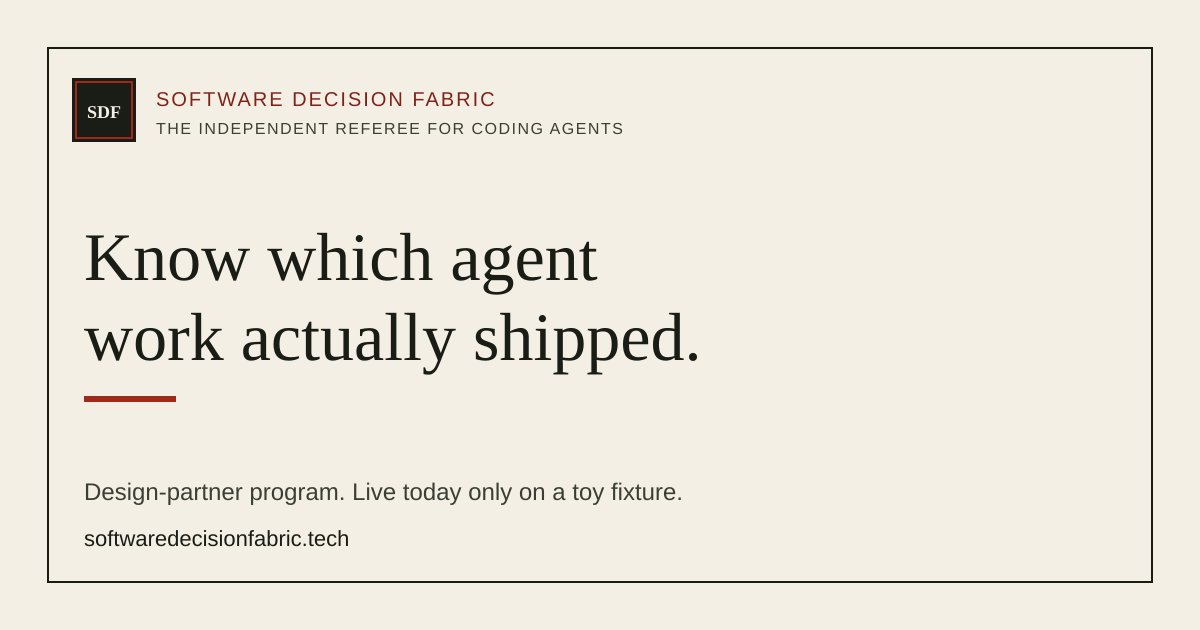
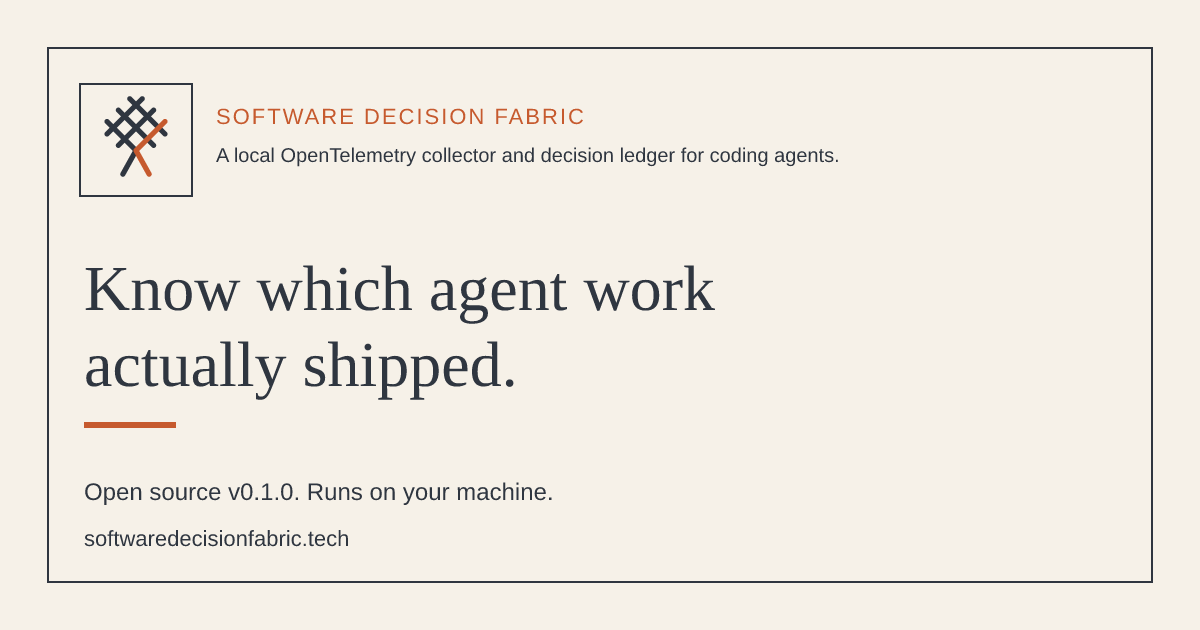
Align the site with the public v0.1.0 collector and woven mark.
Use the official tagline, local install, and token-count privacy, and replace the typographic SDF seal with the fabric mark.

diff --git a/src/data/site.ts b/src/data/site.ts
@@ -6,11 +6,11 @@ export const site = {
   name: "Software Decision Fabric",
   shortName: "SDF",
   url: "https://softwaredecisionfabric.tech",
-  tagline: "The independent referee for coding agents.",
+  tagline: "A local OpenTelemetry collector and decision ledger for coding agents.",
   email: "design-partners@softwaredecisionfabric.tech",
   emailIsPlaceholder: false,
   status:
-    "Today SDF ships an open-source local collector for coding-agent telemetry, plus local commands that declare a task's checks and run them against a commit. The full referee loop is planned and is shown only as a toy fixture mock on this site. We are onboarding 3 to 5 design partners.",
+    "v0.1.0 is public: an open-source local collector and decision ledger (Apache 2.0) that listens on your machine. Declare, verify, and record are partly shipped. Routing and the hosted referee loop are planned. We are onboarding 3 to 5 design partners.",
   repo: "https://github.com/paulpham157/sdf",
 } as const;
 
@@ -20,7 +20,7 @@ export const wedgeMetric = "Cost per Accepted Outcome";
 export const hero = {
   title: "Know which agent work actually shipped.",
   subhead:
-    "SDF is building the independent referee for coding agents. Today it is an open-source local collector: it records the telemetry your agents already export, links sessions to commits, and shows Cost per Accepted Outcome from pull requests that merged. It can also run a task's declared checks against one commit from the command line. Routing work to agents and verifying every attempt automatically are planned.",
+    "A local OpenTelemetry collector and decision ledger for coding agents. It runs on your machine: it listens on 127.0.0.1, stores sessions in SQLite, and does not launch, route, or sandbox agents. It records the telemetry your agents already export, links sessions to commits, and shows Cost per Accepted Outcome from pull requests that merged. It can also run a task's declared checks against one commit. The independent referee loop — routing work and verifying every attempt automatically — is planned.",
   buyer:
     "For platform, security, or VP Engineering leaders running two or more coding agents.",
   primaryCta: "Become a design partner",
@@ -31,7 +31,7 @@ export const problem = {
   heading: "“Task complete” is a claim, not a result.",
   body: "Copilot, Cursor, Devin, and Factory each grade their own work. You pay per seat or per token, while the question that matters — did it work? — goes unanswered.",
   coverage:
-    "What SDF reads today: Claude Code, Codex CLI, OpenCode v2, Qwen Code, Grok CLI, Gemini CLI, GitHub Copilot CLI, and Pi through the community pi-otel extension, from the OpenTelemetry each one exports. The tool-call arguments Qwen Code and Gemini CLI send are dropped before anything is stored. Cursor, Devin, Factory, and Copilot outside the CLI have no SDF adapter yet.",
+    "sdf init supports Claude Code, Codex, OpenCode v2, Pi (through the community pi-otel extension), Qwen, Grok, Gemini, and Copilot CLI, from the OpenTelemetry each one exports. The tool-call arguments Qwen Code and Gemini CLI send are dropped before anything is stored. Cursor, Devin, Factory, and Copilot outside the CLI have no SDF adapter.",
   agents: ["Copilot", "Cursor", "Devin", "Factory"] as const,
 } as const;
 
@@ -73,7 +73,7 @@ export const steps = [
     status: "partial" as Status,
     body: "Planned: every attempt, its cost, and its evidence land in a Decision Graph you can audit. Shipping now: session cost and commit links, decision records you link to sessions and commits, and an optional hash-chained ledger.",
     today:
-      "Today: each session's tokens, duration, and cost, the commit or pull request it links to, and the decision records you write, in one local SQLite file. No UI or API route writes or deletes. With --ledger, sdf task declare and sdf verify also append the task, evidence, and verdict to an append-only, hash-chained ledger that sdf audit verify checks. Linking that evidence to sessions and cost is planned.",
+      "Today: token counts, duration, and computed cost for each session, the commit or pull request it links to, and the decision records you write, in one local SQLite file. Prompt, response, tool, and error text is dropped before storing unless you opt in with --store-content. No UI or API route writes or deletes. With --ledger, sdf task declare and sdf verify also append the task, evidence, and verdict to an append-only, hash-chained ledger that sdf audit verify checks. Linking that evidence to sessions and cost is planned.",
   },
 ] as const;
 
@@ -84,7 +84,7 @@ export const verifiedAttempt =
   "A verified Attempt is a recorded run whose evidence was checked independently of the agent that produced it, against criteria that run did not get to choose.";
 
 export const costPerAcceptedOutcome =
-  "Cost per Accepted Outcome is the computed cost of the agent sessions whose linked commit landed in a merged GitHub pull request, divided by how many such sessions there are. It is unknown, not zero, when any session has no known outcome, an accepted session has no known cost, the same commit is linked to more than one accepted session, or nothing merged. It is never a cost per seat, or per agent claiming a task is done.";
+  "Cost per Accepted Outcome is the computed cost of the agent sessions whose linked GitHub pull request merged, divided by how many such sessions there are. It is unknown, not zero, without --github, or when cost, outcome, or a unique merge is missing: any session has no known outcome, an accepted session has no known cost, the same commit is linked to more than one accepted session, or nothing merged. It is not read from an invoice, and it is not acceptance by a named principal. It is never a cost per seat, or per agent claiming a task is done.";
 
 export const acceptedToday =
   "Accepted means merged: a session counts as accepted only when every commit linked to it is in one GitHub pull request and that pull request is merged. CI status is reported next to it and does not change it. Acceptance by a named reviewer is planned.";
@@ -173,7 +173,7 @@ export const faqs = [
   },
   {
     q: "Is SDF generally available?",
-    a: "No. What ships today is the open-source local collector, with local sdf task declare and sdf verify commands. Automatic verification of every attempt, routing, Hosted Team, and Enterprise are planned, and the referee loop exists only as a toy fixture mock. The invitation on this site is a design-partner program for 3 to 5 platform teams, not a public rollout.",
+    a: "The open-source collector is already public. v0.1.0 runs on your machine under Apache 2.0; install it with go install and keep the data in local SQLite. The hosted referee is not a general release: automatic verification of every attempt, routing, Hosted Team, and Enterprise are planned. The referee loop drawn on this site is a mock of that planned loop. The invitation here is a design-partner program for 3 to 5 platform teams.",
   },
   {
     q: "Are the OpenHands, Factory, and Ona figures SDF prices?",
@@ -182,15 +182,19 @@ export const faqs = [
 ] as const;
 
 export const onePager = {
-  headline: "SDF: the independent referee for coding agents",
+  headline: "SDF: a local OpenTelemetry collector and decision ledger for coding agents",
   sections: [
     {
       title: "Problem",
       body: "Coding agents grade their own work. Teams running several agents can't prove which work shipped, or the Cost per Accepted Outcome.",
     },
     {
+      title: "Install",
+      body: "Public now, and the way to run SDF: v0.1.0, Apache 2.0, on your machine. go install github.com/paulpham157/sdf/cmd/sdf@latest, or go install github.com/paulpham157/sdf/cmd/sdf@v0.1.0. Prebuilt archives are at https://github.com/paulpham157/sdf/releases/tag/v0.1.0. Go 1.26 or newer to build from source. It listens on 127.0.0.1 and stores SQLite locally. No outside SaaS is required. Hosted Team, Enterprise, VPC, and SSO are a planned roadmap and are not required to install.",
+    },
+    {
       title: "Solution",
-      body: "Planned: a vendor-neutral control plane that verifies every agent attempt with evidence the agent can't forge and records it in an auditable Decision Graph. Shipping today: an open-source local collector that records agent telemetry, links sessions to commits, and computes Cost per Accepted Outcome from merged pull requests, plus sdf verify, which runs a declared task's checks against one commit.",
+      body: "Shipping today: an open-source local collector and decision ledger. It records agent telemetry, drops prompt, response, tool, and error text unless you pass --store-content, keeps token counts so cost can be computed, links sessions to commits, and computes Cost per Accepted Outcome from merged pull requests. sdf verify runs a declared task's checks against one commit. Planned: a vendor-neutral referee that routes work and verifies every agent attempt with evidence the agent can't forge.",
     },
     {
       title: "Outcome",
@@ -202,7 +206,7 @@ export const onePager = {
     },
     {
       title: "Model",
-      body: "Planned: Hosted Team (workspace fee plus verified Attempts) and Enterprise (annual platform fee, VPC or self-host, SSO/SCIM). Neither is available yet. Dollar amounts are unpublished until design partners validate them.",
+      body: "Planned roadmap, not the install path: Hosted Team (workspace fee plus verified Attempts) and Enterprise (annual platform fee, VPC or self-host, SSO/SCIM). Neither is available yet. Dollar amounts are unpublished until design partners validate them.",
     },
   ],
   cta: "Become one of 3 to 5 design partners and baseline Cost per Accepted Outcome before and after SDF.",
@@ -274,13 +278,15 @@ export const graphNodes = [
   { title: "Attempt", detail: "Today: an agent session, linked to a commit by exact SHA, git hook, commit trailer, or the single commit in its time window; otherwise unlinked" },
   { title: "Evidence", detail: "Today: sdf verify's check results, not yet linked to a session" },
   { title: "Verdict", detail: "Today: PASS, FAIL, or ERROR for the exact commit sdf verify checked" },
-  { title: "Cost", detail: "Today: computed from the session's tokens and a public price table" },
+  { title: "Cost", detail: "Today: computed from the session's token counts and a public price table, not from an invoice" },
 ] as const;
 
 export const shipsToday = {
   heading: "What you can run today",
-  body: "The collector is open source (Apache 2.0) and runs on your machine. sdf serve listens for OTLP/HTTP on 127.0.0.1:4318 and OTLP/gRPC on 127.0.0.1:4317, stores sessions in one SQLite file, and serves a read-only page at 127.0.0.1:4320. Authentication is off by default; an optional bearer token (--otlp-token-file or SDF_OTLP_TOKEN_FILE) guards OTLP writes, and the hooks sdf installs send it. Keep it on localhost either way.",
+  body: "v0.1.0 is open source (Apache 2.0) and runs entirely on your machine. No outside SaaS is required. sdf serve listens for OTLP/HTTP on 127.0.0.1:4318 and OTLP/gRPC on 127.0.0.1:4317, stores sessions in one SQLite file, and serves a read-only page at 127.0.0.1:4320. It does not launch, route, or sandbox agents; it only listens. Prompt, response, tool, and error text is dropped before storing unless you opt in with --store-content. Token counts are stored so cost can be computed. Authentication is off by default; an optional bearer token (--otlp-token-file or SDF_OTLP_TOKEN_FILE) guards OTLP writes, and the hooks sdf installs send it. Keep the receiver on localhost either way.",
   install: "go install github.com/paulpham157/sdf/cmd/sdf@latest",
+  installPin: "go install github.com/paulpham157/sdf/cmd/sdf@v0.1.0",
+  releaseUrl: "https://github.com/paulpham157/sdf/releases/tag/v0.1.0",
   run: ["sdf serve", "sdf summary"],
-  note: "Needs Go 1.26 or newer. No release binaries are published yet. An accepted outcome needs a commit link (sdf init --git-hooks records one) and --github for merge status; without them the metric says unknown.",
+  note: "Building from source, including go install, needs Go 1.26 or newer. The @latest install currently resolves to v0.1.0; the @v0.1.0 pin stays on this release. Prebuilt archives for Linux, macOS, and Windows are on the v0.1.0 release. Cost per Accepted Outcome is unknown without --github, or when cost, outcome, or a unique merge is missing.",
 } as const;

diff --git a/src/styles/global.css b/src/styles/global.css
@@ -4,20 +4,20 @@
 @import "@fontsource/ibm-plex-mono/latin-500.css";
 
 :root {
-  --paper: #f3efe4;
-  --paper-2: #e6decc;
-  --paper-3: #f7f4ec;
-  --ink: #1a1c16;
-  --ink-soft: #3a3e34;
-  --rule: #cfc6b3;
-  --stamp: #9e2a1c;
-  --stamp-deep: #7f2218;
+  --paper: #f6f1e8;
+  --paper-2: #ebe3d6;
+  --paper-3: #fbf7f1;
+  --ink: #2f3640;
+  --ink-soft: #4e5864;
+  --rule: #d9cfc0;
+  --stamp: #c65a2e;
+  --stamp-deep: #8e3e1c;
   --pass: #145c38;
-  --anchor: #f6e4d8;
+  --anchor: #f3e4d8;
   --serif: "Fraunces Variable", "Iowan Old Style", Palatino, "Palatino Linotype", serif;
   --sans: "Source Sans 3 Variable", "Source Sans 3", "Segoe UI", sans-serif;
   --mono: "IBM Plex Mono", ui-monospace, "SFMono-Regular", Menlo, Consolas, monospace;
-  --shadow: 7px 7px 0 #1a1c16;
+  --shadow: 7px 7px 0 #2f3640;
   color-scheme: light;
 }
 
@@ -164,7 +164,7 @@ a:visited {
 }
 
 .kicker-light {
-  color: #f3cfc6;
+  color: #f3c7b6;
 }
 
 .lede {
@@ -184,7 +184,7 @@ a:visited {
 }
 
 .lede.light {
-  color: #e7e2d6;
+  color: #e8e2d6;
 }
 
 .buyer {
@@ -258,19 +258,13 @@ code {
 }
 
 .seal {
-  display: grid;
-  place-items: center;
+  display: block;
   flex: 0 0 auto;
   width: 2.65rem;
   height: 2.65rem;
-  background: var(--ink);
-  color: var(--paper);
   border: 1px solid var(--ink);
+  background: var(--paper);
   box-shadow: 3px 3px 0 var(--stamp);
-  font-family: var(--serif);
-  font-weight: 620;
-  font-size: 0.72rem;
-  letter-spacing: 0.06em;
 }
 
 .site-header {
@@ -306,10 +300,9 @@ code {
 }
 
 .brand-tag {
-  font-family: var(--mono);
-  font-size: 0.75rem;
-  letter-spacing: 0.04em;
-  text-transform: uppercase;
+  max-width: 22rem;
+  font-size: 0.78rem;
+  line-height: 1.3;
   color: var(--ink-soft);
 }
 
@@ -404,7 +397,7 @@ code {
 }
 
 .status-bar a:focus-visible {
-  outline-color: #f3cfc6;
+  outline-color: #f3c7b6;
 }
 
 .hero {
@@ -523,6 +516,15 @@ code {
 
 .agent-name {
   font-size: 1.55rem;
+}
+
+.agent-row-label {
+  margin-top: 1.25rem;
+  max-width: 40rem;
+  font-family: var(--mono);
+  font-size: 0.82rem;
+  line-height: 1.45;
+  color: var(--ink-soft);
 }
 
 .agent-mark {
@@ -671,7 +673,7 @@ code {
 
 .close .text-link:focus-visible,
 .close .button:focus-visible {
-  outline-color: #f3cfc6;
+  outline-color: #f3c7b6;
 }
 
 .page-hero {
@@ -1248,8 +1250,13 @@ textarea {
 .footer-tag,
 .footer-status,
 .footer-note,
+.footer-install,
 .footer-end {
   color: var(--ink-soft);
+}
+
+.footer-install {
+  margin-top: 0.7rem;
 }
 
 .footer-status,
@@ -1316,7 +1323,7 @@ textarea {
   }
 }
 
-@media (max-width: 1100px) {
+@media (max-width: 1360px) {
   .primary-nav-bar {
     width: 100%;
     order: 3;

diff --git a/src/pages/llms.txt.ts b/src/pages/llms.txt.ts
@@ -1,15 +1,15 @@
 import type { APIRoute } from "astro";
-import { hero, site } from "../data/site";
+import { hero, shipsToday, site } from "../data/site";
 
 const body = `# ${site.name} (${site.shortName})
 
-> ${site.tagline} ${hero.subhead} Source: ${site.repo}. SDF does not sell an agent and does not resell model tokens. ${site.status} SDF dollar amounts are not published. The hosted tier is named Hosted Team.
+> ${site.tagline} ${hero.subhead} Source: ${site.repo}. Install: ${shipsToday.install}. Pin: ${shipsToday.installPin}. Release: ${shipsToday.releaseUrl}. SDF does not sell an agent and does not resell model tokens. ${site.status} SDF dollar amounts are not published. The hosted tier is named Hosted Team.
 
 This file restates public pages on ${site.url}. It is not a customer list, a price sheet, or a set of results.
 
 ## Pages
 
-- [Home](${site.url}/): what SDF is, the four steps (three planned, one partly shipped), the three commitments, and what you can run today.
+- [Home](${site.url}/): what SDF is, the four steps (Route is Planned; Declare, Verify, and Record are partly shipped), the three commitments, and what you can run today.
 - [Pricing](${site.url}/pricing): Hosted Team and Enterprise. Amounts are not published. OpenHands, Factory, and Ona figures are cited coding-agent list prices, not SDF prices.
 - [One-pager](${site.url}/one-pager): the same brief on one page.
 - [Sample Evidence Report](${site.url}/sample-evidence-report): a labeled mock. Not a customer report.

diff --git a/src/pages/llms-full.txt.ts b/src/pages/llms-full.txt.ts
@@ -44,7 +44,20 @@ write("", "## Commitments", "");
 for (const pillar of pillars) {
   write(`- ${pillar.title}${"status" in pillar ? ` (${statusLabel[pillar.status]})` : ""}: ${pillar.body}`);
 }
-write("", acceptedToday, "", `## ${shipsToday.heading}`, "", shipsToday.body, `Install: ${shipsToday.install}`, `Run: ${shipsToday.run.join(", ")}`, shipsToday.note, `Source: ${site.repo}`);
+write(
+  "",
+  acceptedToday,
+  "",
+  `## ${shipsToday.heading}`,
+  "",
+  shipsToday.body,
+  `Install: ${shipsToday.install}`,
+  `Pin: ${shipsToday.installPin}`,
+  `Release: ${shipsToday.releaseUrl}`,
+  `Run: ${shipsToday.run.join(", ")}`,
+  shipsToday.note,
+  `Source: ${site.repo}`,
+);
 write(
   "",
   "## Pricing shape",

diff --git a/README.md b/README.md
@@ -2,7 +2,9 @@
 
 Marketing site for [softwaredecisionfabric.tech](https://softwaredecisionfabric.tech/).
 
-SDF is the independent referee for coding agents. This site follows the draft v0 landing, pricing, and one-pager: vendor-neutral verification, evidence a team can re-run, and Cost per Accepted Outcome. It is written for the design-partner program. SDF runs live only on a toy fixture, so the pages do not show customer logos, testimonials, case studies, result metrics, or SDF dollar prices.
+Software Decision Fabric is a local OpenTelemetry collector and decision ledger for coding agents. v0.1.0 is public (Apache 2.0) and runs on the user's machine. This site also describes a planned hosted referee. That loop is shown only as a labeled mock where the mock appears, so the pages do not show customer logos, testimonials, case studies, result metrics, or SDF dollar prices. Declare, Verify, and Record are partly shipped. Route is planned.
+
+Copy lives in [`src/data/site.ts`](src/data/site.ts). The product repository is [github.com/paulpham157/sdf](https://github.com/paulpham157/sdf).
 
 ## Run locally
 
